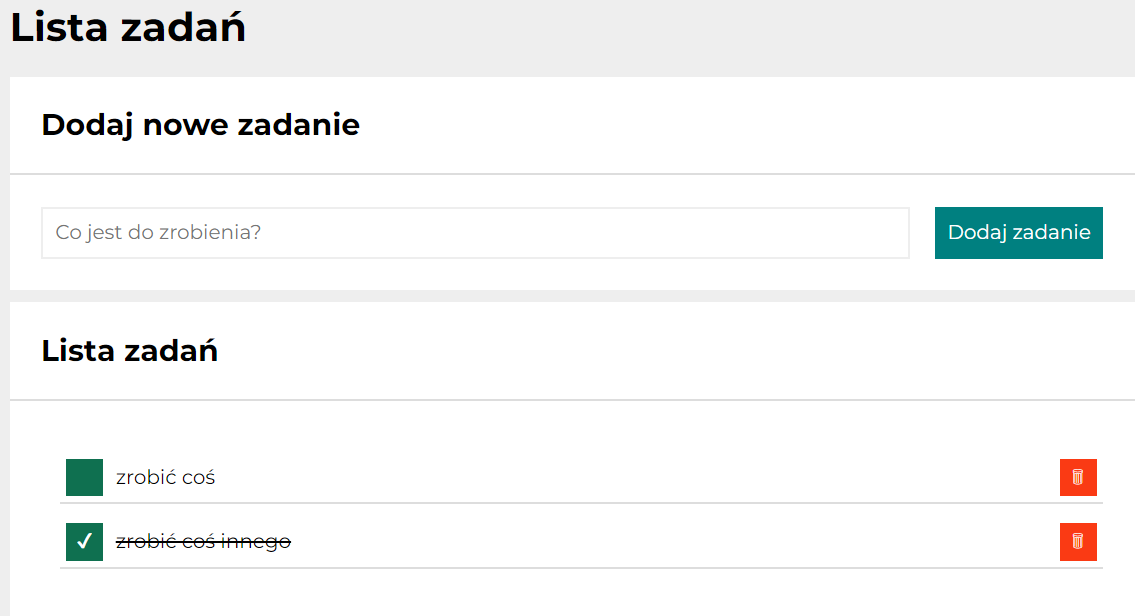
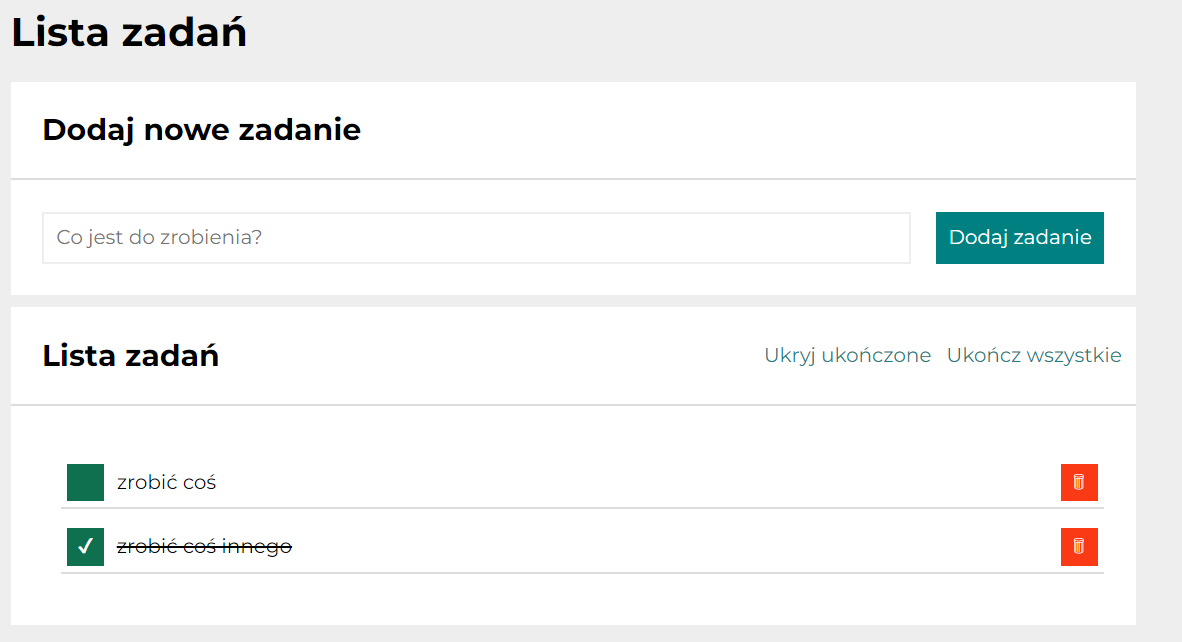
updated readme

diff --git a/readme.md b/readme.md
@@ -8,7 +8,7 @@ Hi! Welcome to my todo list, where you can create your list of tasks that can he
 
 ## Details for users
 1. Website is available only in polish (I am about to add language selection in thee future, so it will be available in english as well)
-2. After starting the website for the first time, you should see two example tasks called "zrobić coś" (do something) and "zrobić coś innego" (do something else). "Zrobić coś innego" should be crossed out as it is marked as done. You should see same two tasks after refreshing the page.
+2. After starting the website for the first time, you should see two example tasks called "zrobić coś" (do something) and "zrobić coś innego" (do something else). "Zrobić coś innego" should be crossed out as it is marked as done. Also there will be two options called "ukryj ukończone" (hide done) and ukończ wszystkie (finish all). You should see same two tasks after refreshing the page
 
 <img src="for_readme/startingTasks.png">
 
@@ -25,9 +25,18 @@ Hi! Welcome to my todo list, where you can create your list of tasks that can he
 
 <img src="for_readme/deleteTaskAnimation.gif">
 
+5. You can mark all tasks as done by clicking "ukończ wszystkie" (finish all) you can mark all tasks as done
+
+<img src="for_readme/markAllDone.gif">
+
+6. You also can hide all tasks that are done by clicking "Ukryj ukończone" (hide done) which hides all done tasks and chcnges text into "pokaż ukończone" (show done). If you click on the text once again all done tasks will show up again
+
+<img src="for_readme/toggleDisplayDone.gif">
+
 ## Details for developers
 
 1. JavaScript code has been closed in a block to avoid setting global functions or variables
 2. All JS interactions are closed in separated functions with function init called as a first one and then calling one further interactions
 3. For naming classes for HTML mark-ups I've used BEM convention for any class I was using in CSS. For classes used in JS I used prefixes "js-". All of them are written in camelCase
 4. I used media queries to change how website will be displayed on various devices
+5. Code has been written with regard to immutability. Arrays and objects aren't modified, they are replaced with new ones
